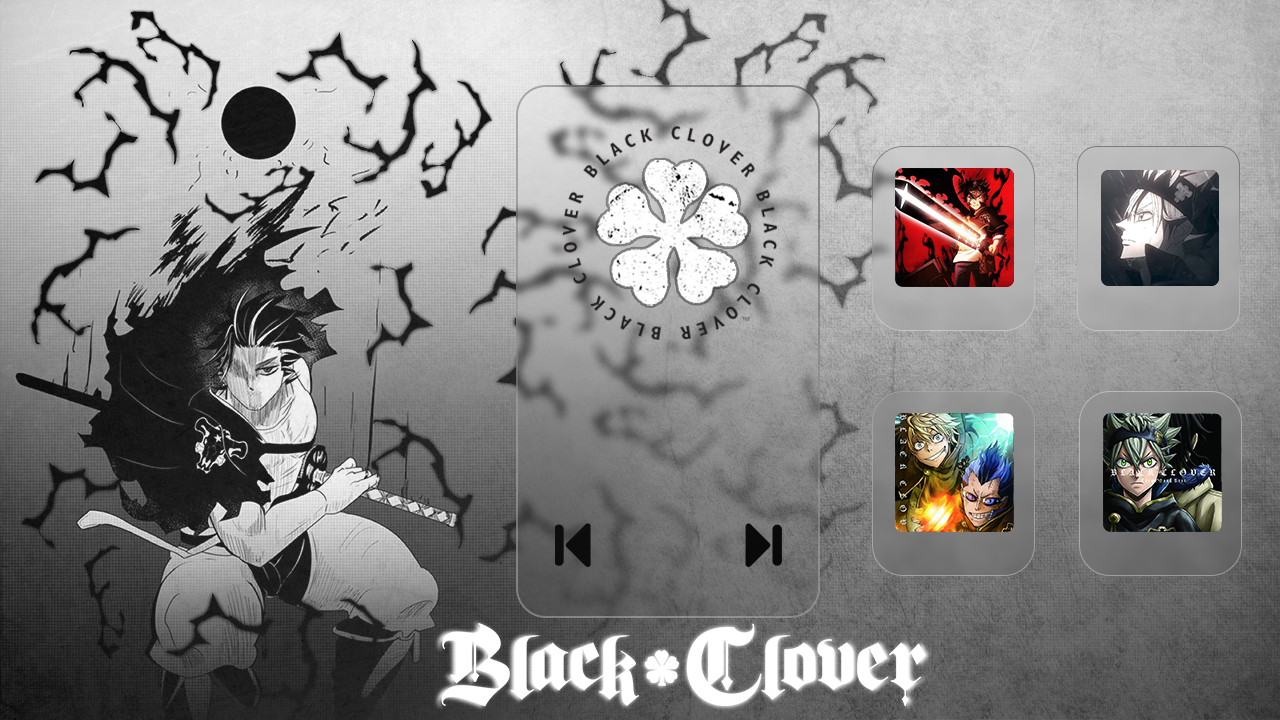
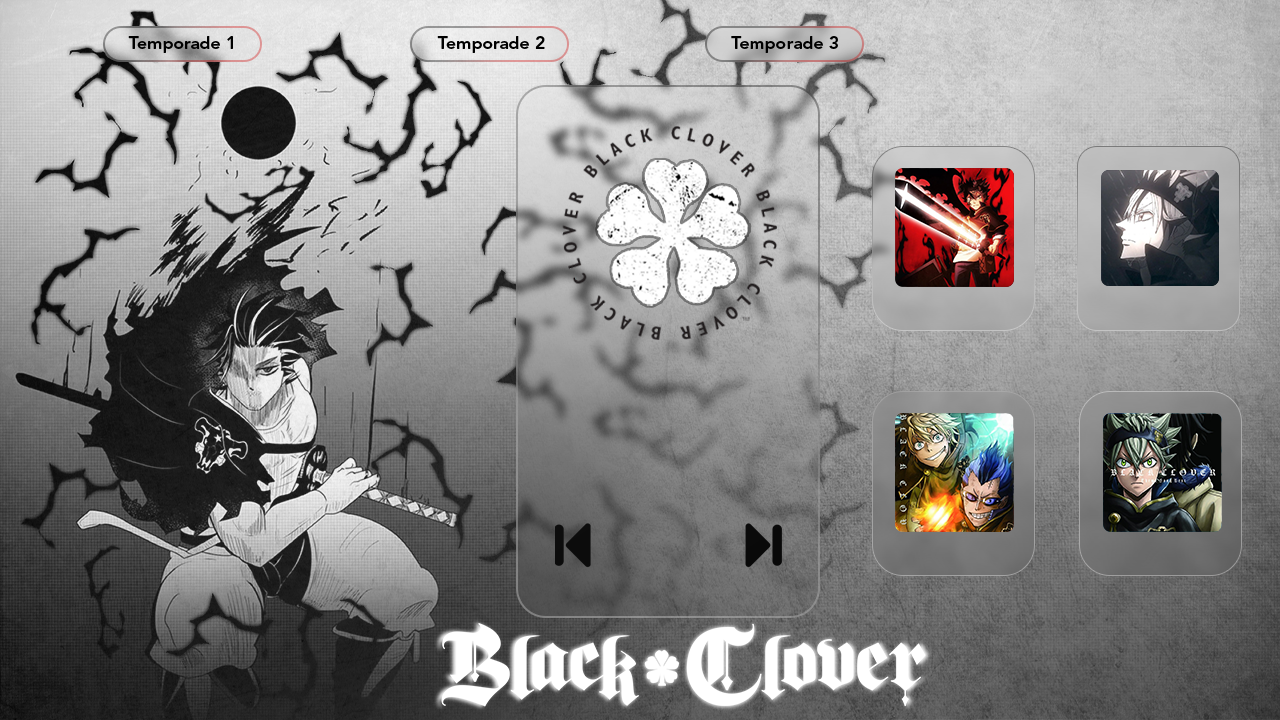
allReady

Changed region(s): [[0.3125, 0.0306, 0.4375, 0.0917], [0.5625, 0.0306, 0.6875, 0.0917], [0.0625, 0.0306, 0.1875, 0.0917]]

diff --git a/sketch.js b/sketch.js
@@ -130,17 +130,17 @@ function draw() {
 function mouseClicked() {
 
 
-  if (dist(mouseX, mouseY, 114, 684) < 100) {
+  if (dist(mouseX, mouseY, 103, 26) < 100) {
     playlist = 1;
     temp2.stopPlaylist();
         temp3.stopPlaylist();
   }
-  if (dist(mouseX, mouseY, 421, 684) < 100) {
+  if (dist(mouseX, mouseY, 410, 26) < 100) {
     playlist = 2;
         temp1.stopPlaylist();
     temp3.stopPlaylist();
   }
-  if (dist(mouseX, mouseY, 720, 684) < 100) {
+  if (dist(mouseX, mouseY, 705, 26) < 100) {
     playlist = 0;
     temp1.stopPlaylist();
     temp2.stopPlaylist();
